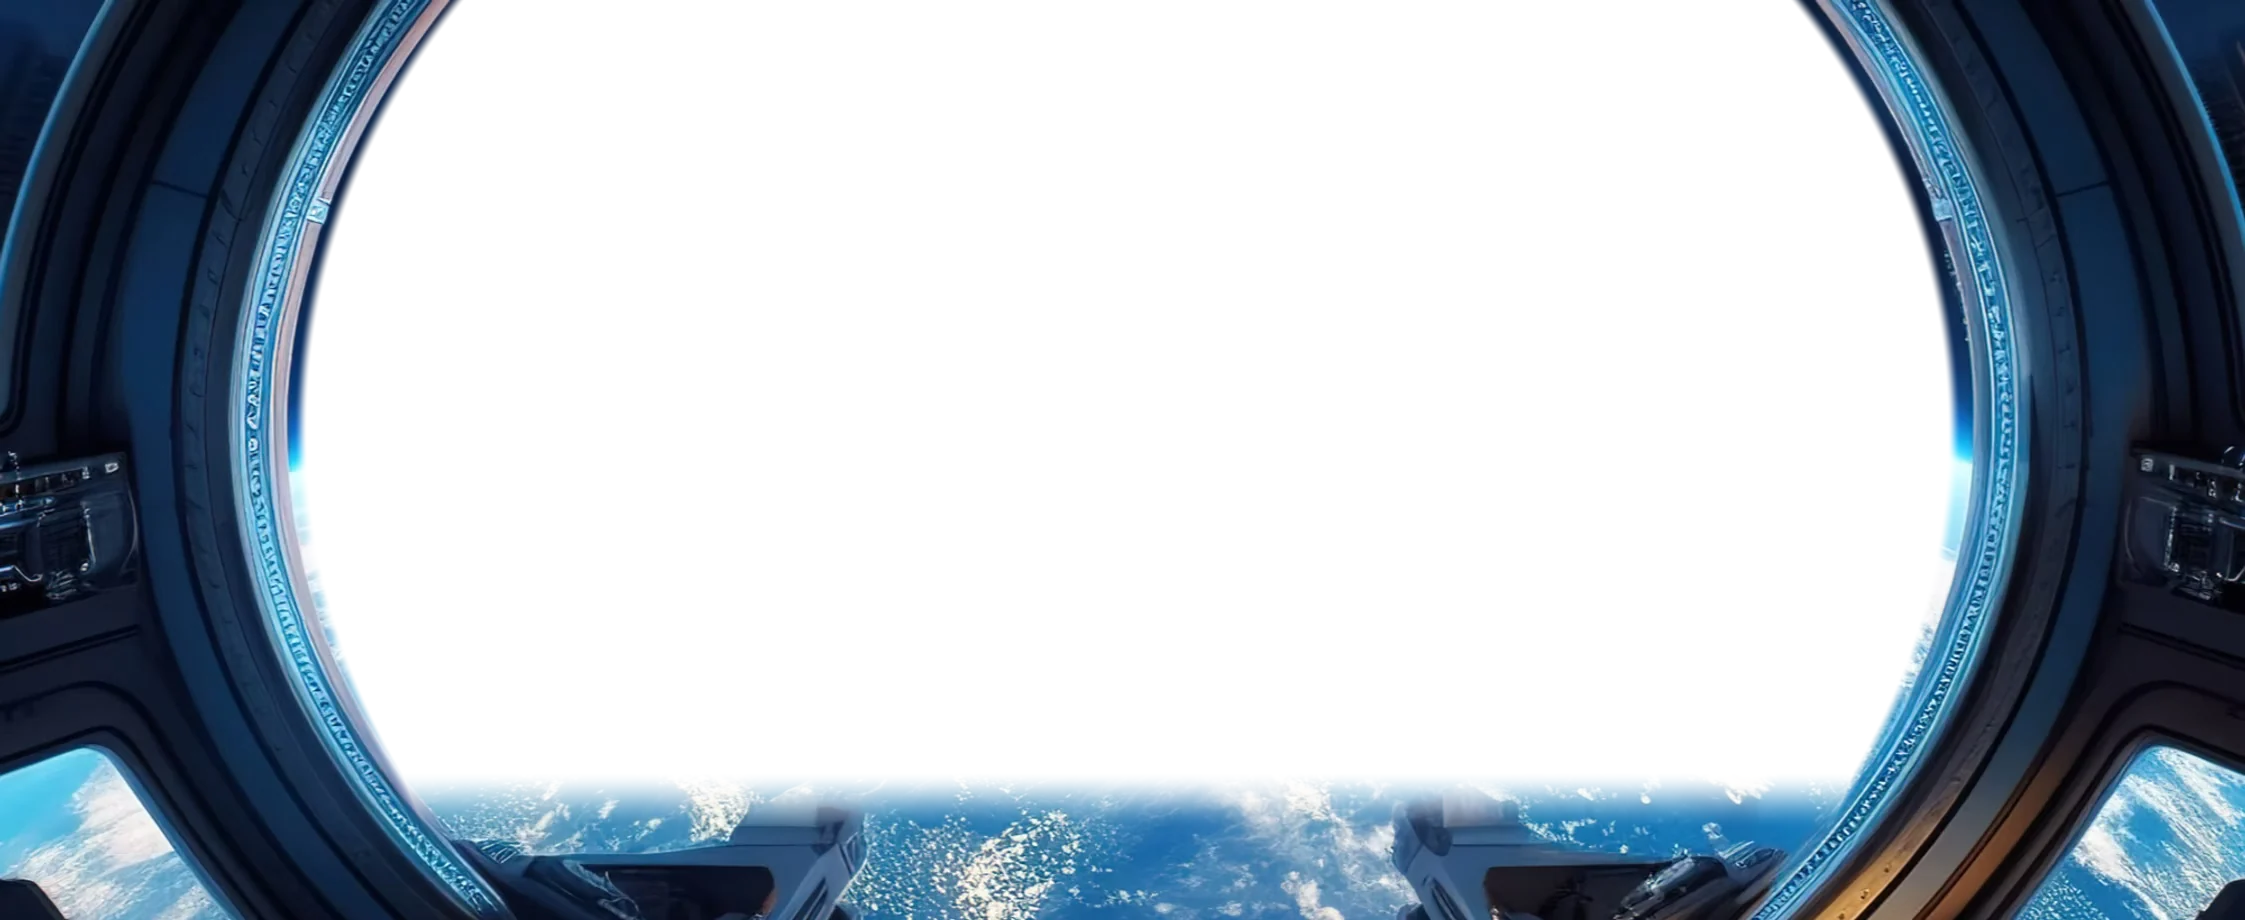
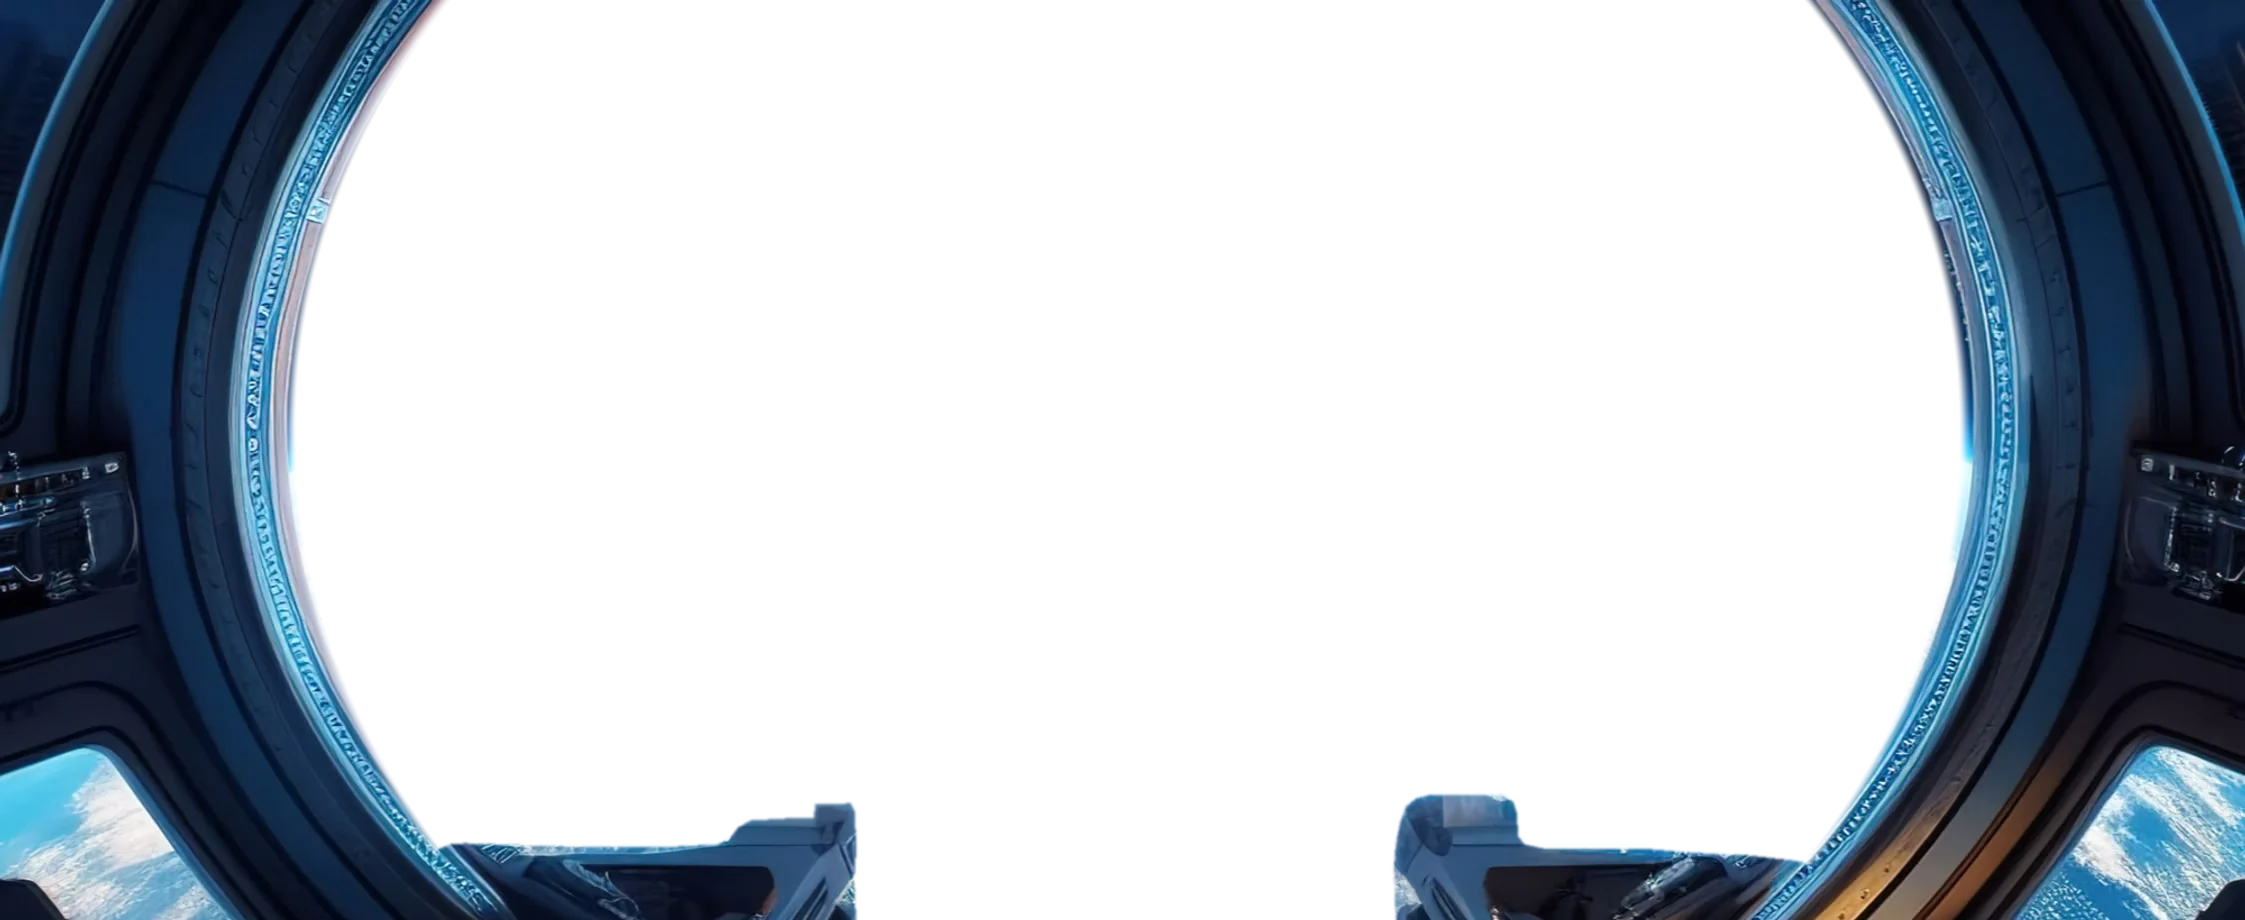
[ローカル] FVの近づく地球: 座席の形にぴったり沿って切り抜き直し、座席のまわりの雲も一緒に動くように(止まった雲が残らない)

diff --git a/index.html b/index.html
@@ -16,7 +16,7 @@
   <link rel="preconnect" href="https://fonts.gstatic.com" crossorigin>
   <link href="https://fonts.googleapis.com/css2?family=Cormorant+Garamond:ital,wght@0,400;0,500;0,600;1,400;1,500&family=Shippori+Mincho:wght@400;500;600;700&family=Zen+Kaku+Gothic+New:wght@400;500;700&display=swap" rel="stylesheet">
   <!-- ファーストビューの写真は最初に取りに行く(PC: 窓枠ありの地球+窓枠 / スマホ: 窓の中の地球) -->
-  <link rel="preload" as="image" href="images/space-earth.webp" media="(min-width: 768px)" fetchpriority="high">
+  <link rel="preload" as="image" href="images/space-earth-earth.webp" media="(min-width: 768px)" fetchpriority="high">
   <link rel="preload" as="image" href="images/space-earth-frame.webp" media="(min-width: 768px)">
   <link rel="preload" as="image" href="images/earth-window.webp" media="(max-width: 767px)" fetchpriority="high">
   <script>
@@ -25,7 +25,7 @@
       var root = document.documentElement;
       var ready = function () { root.classList.add("ls-bg-ready"); };
       var sp = window.matchMedia("(max-width: 767px)").matches || location.search.indexOf("window") !== -1;
-      var srcs = sp ? ["images/earth-window.webp"] : ["images/space-earth.webp", "images/space-earth-frame.webp"];
+      var srcs = sp ? ["images/earth-window.webp"] : ["images/space-earth-earth.webp", "images/space-earth-frame.webp"];
       var left = srcs.length;
       root.classList.add("ls-bg-wait");
       srcs.forEach(function (src) {
@@ -36,7 +36,7 @@
       setTimeout(ready, 4000);
     })();
   </script>
-  <link rel="stylesheet" href="css/style.css?v=20261010193000">
+  <link rel="stylesheet" href="css/style.css?v=20261010200000">
 </head>
 <body>
 <main class="ls">

diff --git a/css/style.css b/css/style.css
@@ -155,7 +155,12 @@ figure {
   }
 }
 
-/* 窓枠と手前の座席は動かない(窓の内側をくり抜いた同じ写真を、上に重ねる) */
+/* 動く地球のほうは、座席を消して雲で埋めた写真(座席が二重に見えないように) */
+.ls-fv-bg {
+  background-image: url("../images/space-earth-earth.webp");
+}
+
+/* 窓枠と手前の座席は動かない(窓の内側と、座席のまわりの地球をくり抜いた同じ写真を、上に重ねる) */
 .ls-fv-frame {
   pointer-events: none;
   background-image: url("../images/space-earth-frame.webp");
